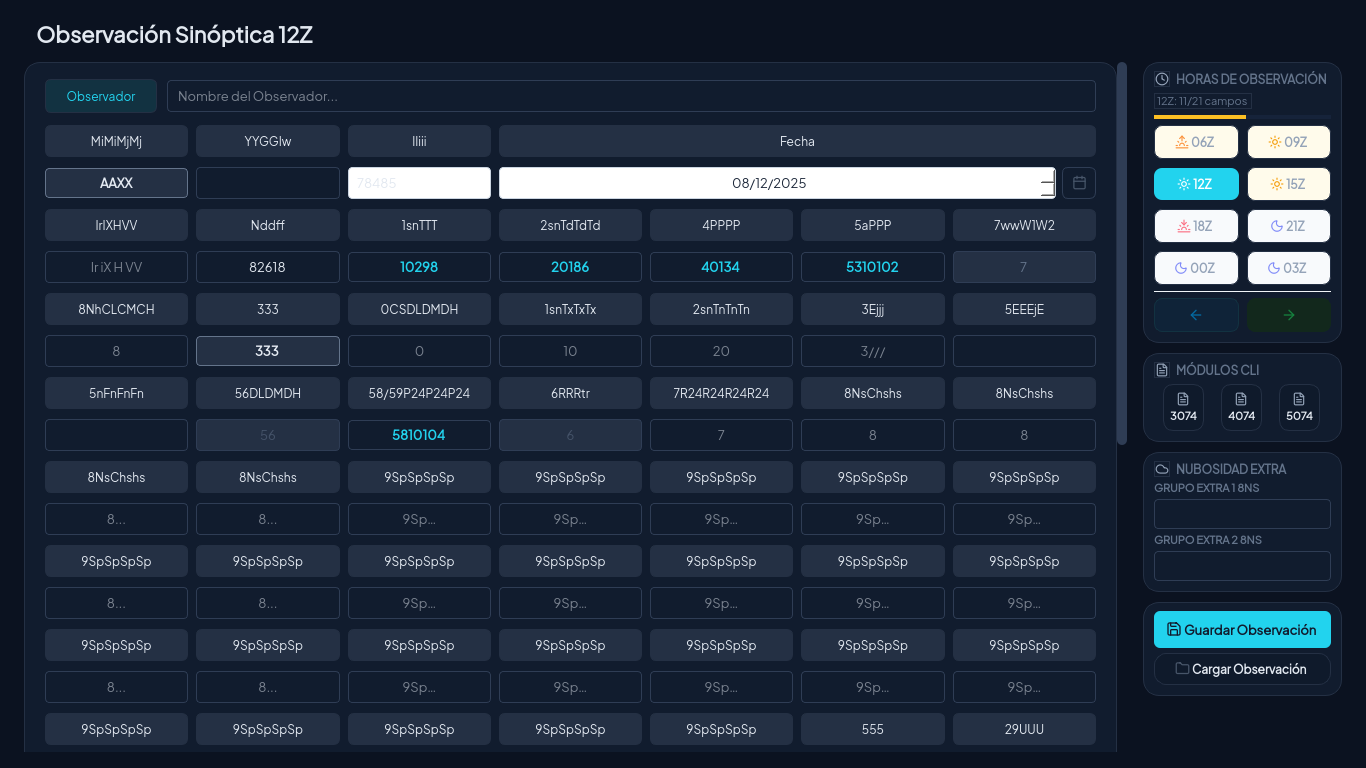
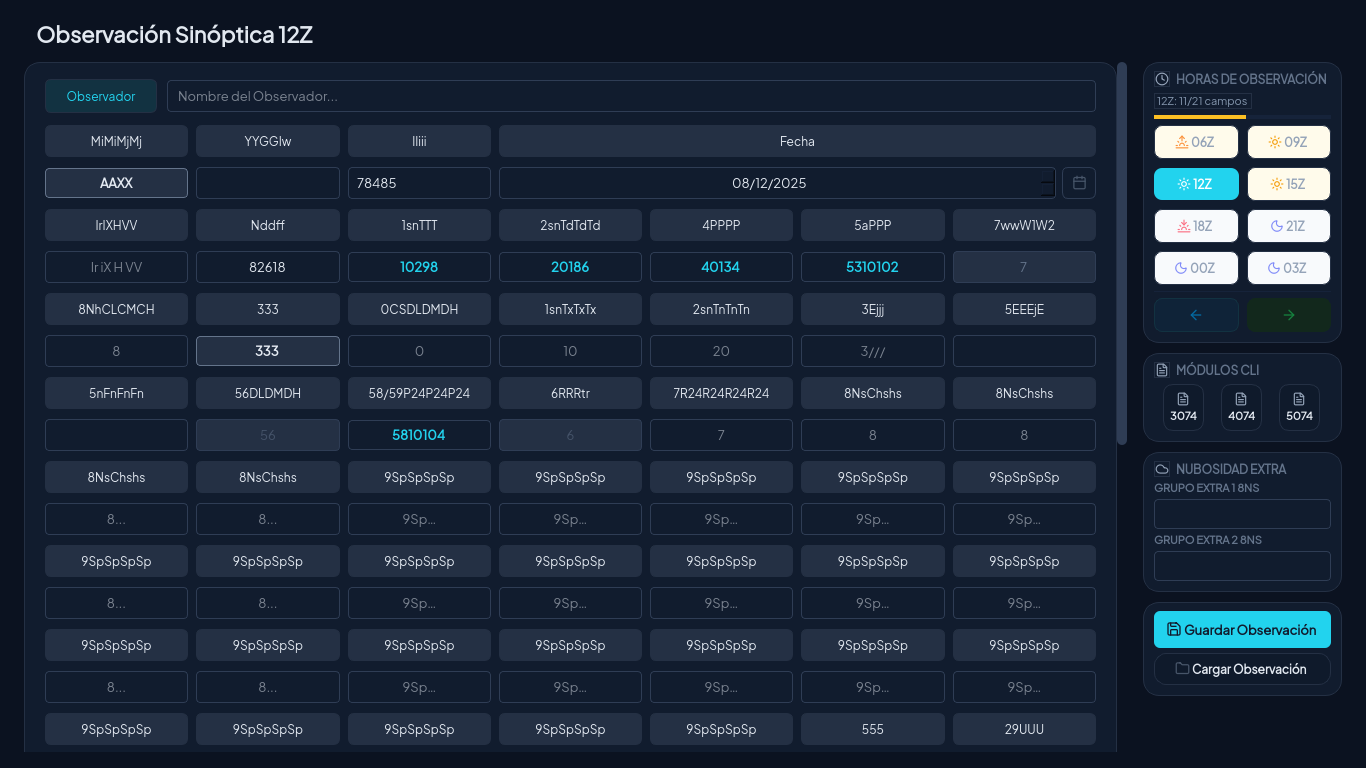
fix(synoptic): el campo Fecha y las hojas inline restantes salen de la paleta (F4, corte 4)
El `QDateEdit` de Fecha tenía `background-color: #ffffff` fijo: en el tema
oscuro aparecía como un rectángulo blanco en medio de la grilla. Ahora usa
`$superficie` y `$texto`. Lo mismo el combo de estaciones, el divisor del riel,
la etiqueta de hora y los dos mensajes del toast.

Cuatro hojas más quedaban con tokens sin resolver, porque mis reemplazos
anteriores metieron `$rol` dentro de hojas inline que no pasaban por `_qss()`.
Se envuelven con un recorrido por paréntesis, no con expresiones regulares.

El test que las busca se endurece: antes sólo miraba argumentos con `_QSS` o
`qss(`, así que una cadena literal con `$` se le escapaba. Ahora recorre **todo**
`setStyleSheet(...)` de la página y falla si una hoja con tokens no pasa por
`_qss()`, indicando la línea.

Captura oscura verificada: Fecha oscura con texto claro, grilla intacta.
835 passed, EXIT=0, cero avisos de parseo de Qt.

Changed region(s): [[0.246, 0.2188, 0.7994, 0.2812]]

diff --git a/oms_ui/pages/synoptic.py b/oms_ui/pages/synoptic.py
@@ -793,10 +793,12 @@ class SynopticPage(QWidget):
         if self.station_combo.count():
             self.station_combo.setCurrentIndex(-1)
         self.station_combo.setStyleSheet(
-            "QComboBox { background-color: #ffffff; border: 1px solid #cbd5e1;"
-            "border-radius: 4px; padding: 4px 8px; }"
-            "QComboBox:item { color: #1e293b; }"
-            "QComboBox::drop-down { border: none; width: 22px; }"
+            _qss(
+                "QComboBox { background-color: $superficie; border: 1px solid $borde_input;"
+                "border-radius: 4px; padding: 4px 8px; color: $texto; }"
+                "QComboBox:item { color: $texto; }"
+                "QComboBox::drop-down { border: none; width: 22px; }"
+            )
         )
         self.station_combo.setMinimumHeight(32)
 
@@ -804,10 +806,10 @@ class SynopticPage(QWidget):
         self.fecha_edit.setDisplayFormat("dd/MM/yyyy")
         self.fecha_edit.setCalendarPopup(False)
         self.fecha_edit.setAlignment(Qt.AlignmentFlag.AlignCenter)
-        self.fecha_edit.setStyleSheet(
-            "QDateEdit { background-color: #ffffff; border: 1px solid #cbd5e1;"
-            "border-radius: 4px; padding: 4px 8px; color: #1e293b; }"
-        )
+        self.fecha_edit.setStyleSheet(_qss(
+            "QDateEdit { background-color: $superficie; border: 1px solid $borde_input;"
+            "border-radius: 4px; padding: 4px 8px; color: $texto; }"
+        ))
         self.fecha_edit.setMinimumHeight(32)
 
         # Elegir el día de entre las observaciones guardadas, como en la
@@ -1042,10 +1044,10 @@ class SynopticPage(QWidget):
         progress_row = QHBoxLayout()
         progress_row.setSpacing(6)
         self.progress_label = QLabel("0/21 campos")
-        self.progress_label.setStyleSheet(
-            "color: #64748b; font-size: 11px; font-weight: 600;"
+        self.progress_label.setStyleSheet(_qss(
+            "color: $suave_alt; font-size: 11px; font-weight: 600;"
             "background: transparent;"
-        )
+        ))
         progress_row.addWidget(self.progress_label)
         progress_row.addStretch(1)
         hours_l.addLayout(progress_row)
@@ -1074,7 +1076,7 @@ class SynopticPage(QWidget):
 
         divider = QFrame()
         divider.setFrameShape(QFrame.Shape.HLine)
-        divider.setStyleSheet("background-color: #f1f5f9; border: none;")
+        divider.setStyleSheet(_qss("background-color: $panel; border: none;"))
         divider.setFixedHeight(1)
         hours_l.addWidget(divider)
 
@@ -1185,13 +1187,13 @@ class SynopticPage(QWidget):
             )
         )
         self.error_label = _MessageLabel(on_change=self._refresh_toast)
-        self.error_label.setStyleSheet(
-            "color: #fecaca; font-weight: bold; background: transparent;"
-        )
+        self.error_label.setStyleSheet(_qss(
+            "color: $error; font-weight: bold; background: transparent;"
+        ))
         self.status_label = _MessageLabel(on_change=self._refresh_toast)
-        self.status_label.setStyleSheet(
-            "color: #6ee7b7; font-weight: bold; background: transparent;"
-        )
+        self.status_label.setStyleSheet(_qss(
+            "color: $ok; font-weight: bold; background: transparent;"
+        ))
         toast_l.addWidget(self.error_label)
         toast_l.addWidget(self.status_label)
         self._status_timer = QTimer(self)

diff --git a/tests/test_f4_ui.py b/tests/test_f4_ui.py
@@ -1489,19 +1489,29 @@ def test_the_date_is_chosen_from_the_stored_observations(page, qtbot, monkeypatc
 def test_ningun_estilo_del_sinoptico_queda_con_tokens_sin_resolver():
     """Un `$rol` que llega a Qt se ignora en silencio: el widget pierde el color.
 
-    Toda hoja que venga de una constante o de un constructor tiene que pasar por
-    `_qss()`, que la resuelve con la paleta antes de aplicarla.
+    Se recorre cada `setStyleSheet(...)` de la página y se comprueba que ninguna
+    hoja con tokens quede sin pasar por `_qss()`.
     """
-    import re
     from pathlib import Path
 
     fuente = (Path(__file__).resolve().parents[1] / "oms_ui" / "pages" / "synoptic.py").read_text(
         encoding="utf-8"
     )
-    sin_resolver = [
-        m.group(1).strip()[:60]
-        for m in re.finditer(r"setStyleSheet\(([^)]*)\)", fuente)
-        if ("_QSS" in m.group(1) or "_qss(" in m.group(1) or "qss(" in m.group(1))
-        and "_qss(" not in m.group(1)
-    ]
-    assert not sin_resolver, f"hojas sin resolver: {sin_resolver}"
+    pendientes, i = [], 0
+    while True:
+        j = fuente.find("setStyleSheet(", i)
+        if j < 0:
+            break
+        ini_arg = j + len("setStyleSheet(")
+        prof, k = 1, ini_arg
+        while k < len(fuente) and prof:
+            if fuente[k] == "(":
+                prof += 1
+            elif fuente[k] == ")":
+                prof -= 1
+            k += 1
+        arg = fuente[ini_arg : k - 1]
+        if "$" in arg and "_qss(" not in arg:
+            pendientes.append(fuente[:j].count("\n") + 1)
+        i = k
+    assert not pendientes, f"hojas con tokens sin resolver en las líneas {pendientes}"
